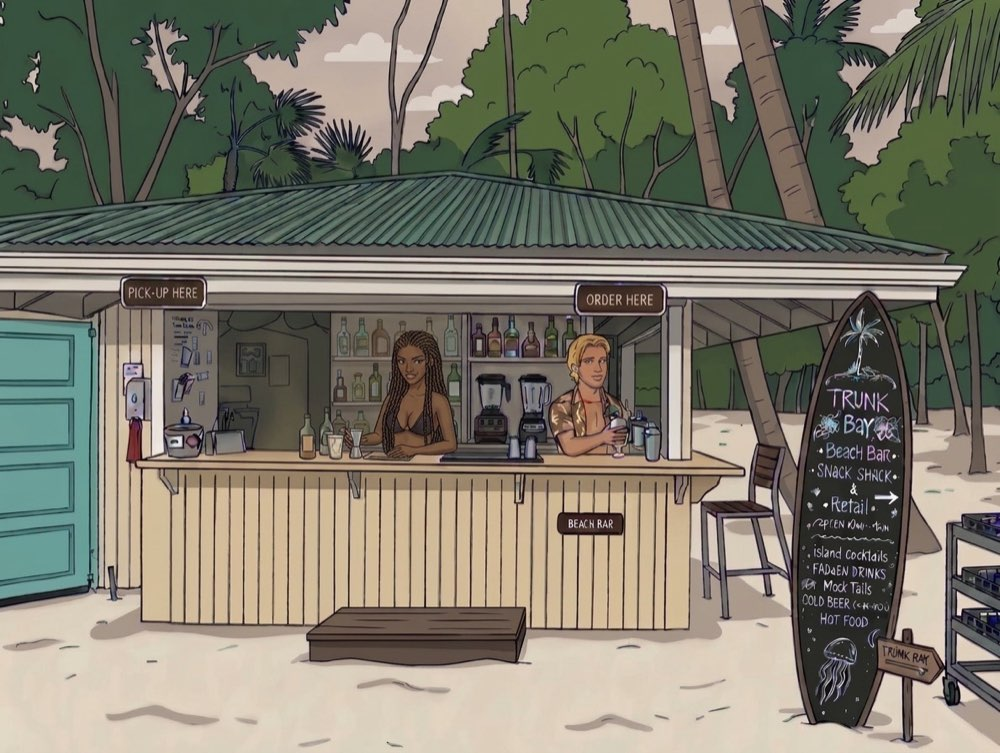
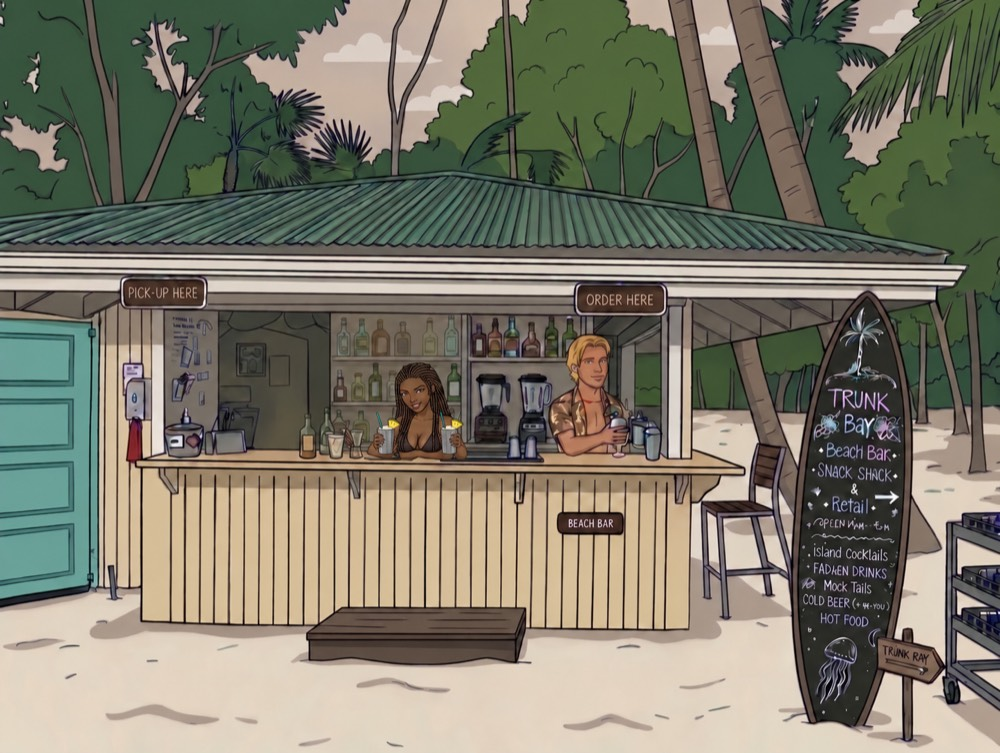
Serve piña coladas on the 404 beach bar

diff --git a/site/404.html b/site/404.html
@@ -21,7 +21,7 @@
 <p class="small">Page not found</p>
 <h1>Nothing moored here. Pull up a stool.</h1>
 <p>The page you were after drifted off the chart. The bar is open while you find your way back.</p>
-<img src="/beach-bar.jpg" width="1000" height="753" alt="Drawing of a beach bar under palm trees, two bartenders at the counter and a surfboard menu out front" style="width:100%;height:auto;border-radius:12px;margin:8px 0 20px">
+<img src="/beach-bar.jpg" width="1000" height="753" alt="Drawing of a beach bar under palm trees, one bartender holding up two piña coladas and a surfboard menu out front" style="width:100%;height:auto;border-radius:12px;margin:8px 0 20px">
 <p><a class="btn" href="/">Back to the harbor</a> &nbsp; <a href="/how-to">How to</a> &nbsp;&middot;&nbsp; <a href="https://github.com/dcadolph/moorings/releases/latest/download/moorings_macos_universal.dmg">Download for Mac</a></p>
 </main>
 <footer><div class="w"><span><a href="https://github.com/dcadolph/moorings">Source</a> &nbsp;&middot;&nbsp; <a href="https://github.com/dcadolph/moorings/issues">Issues</a> &nbsp;&middot;&nbsp; <a href="/">Home</a></span><span>moorings is free and open source under the Apache 2.0 license.</span></div></footer>
